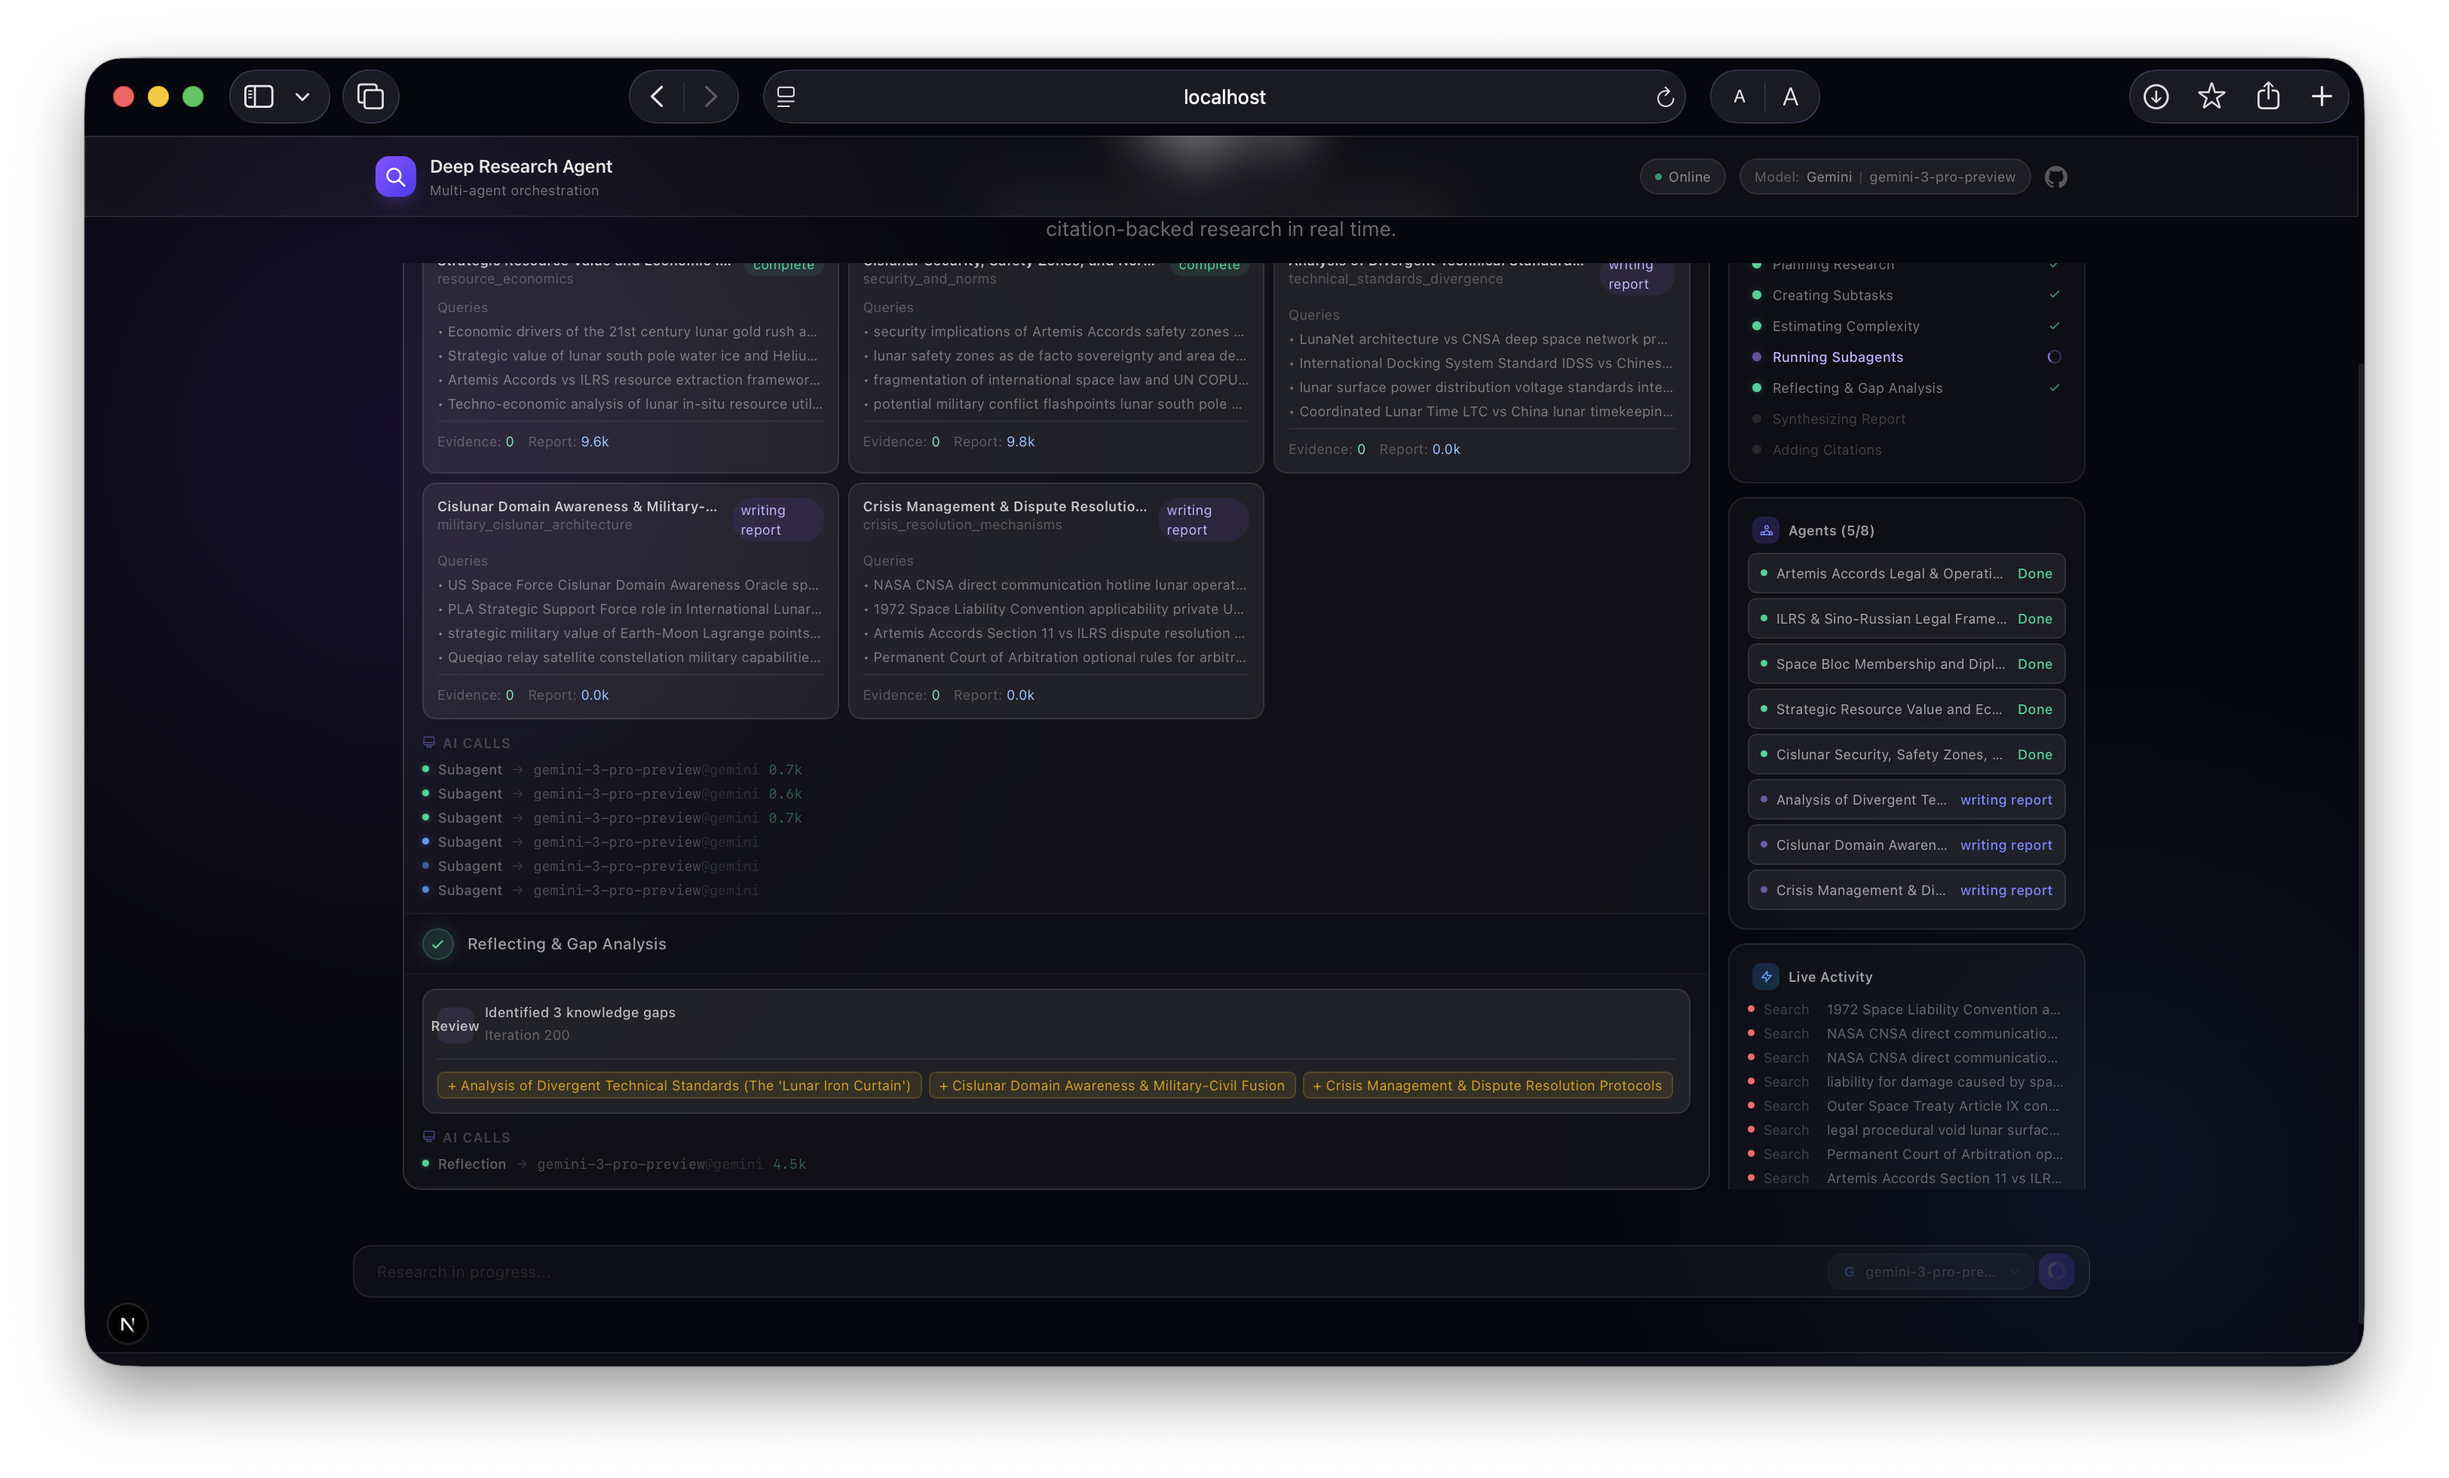
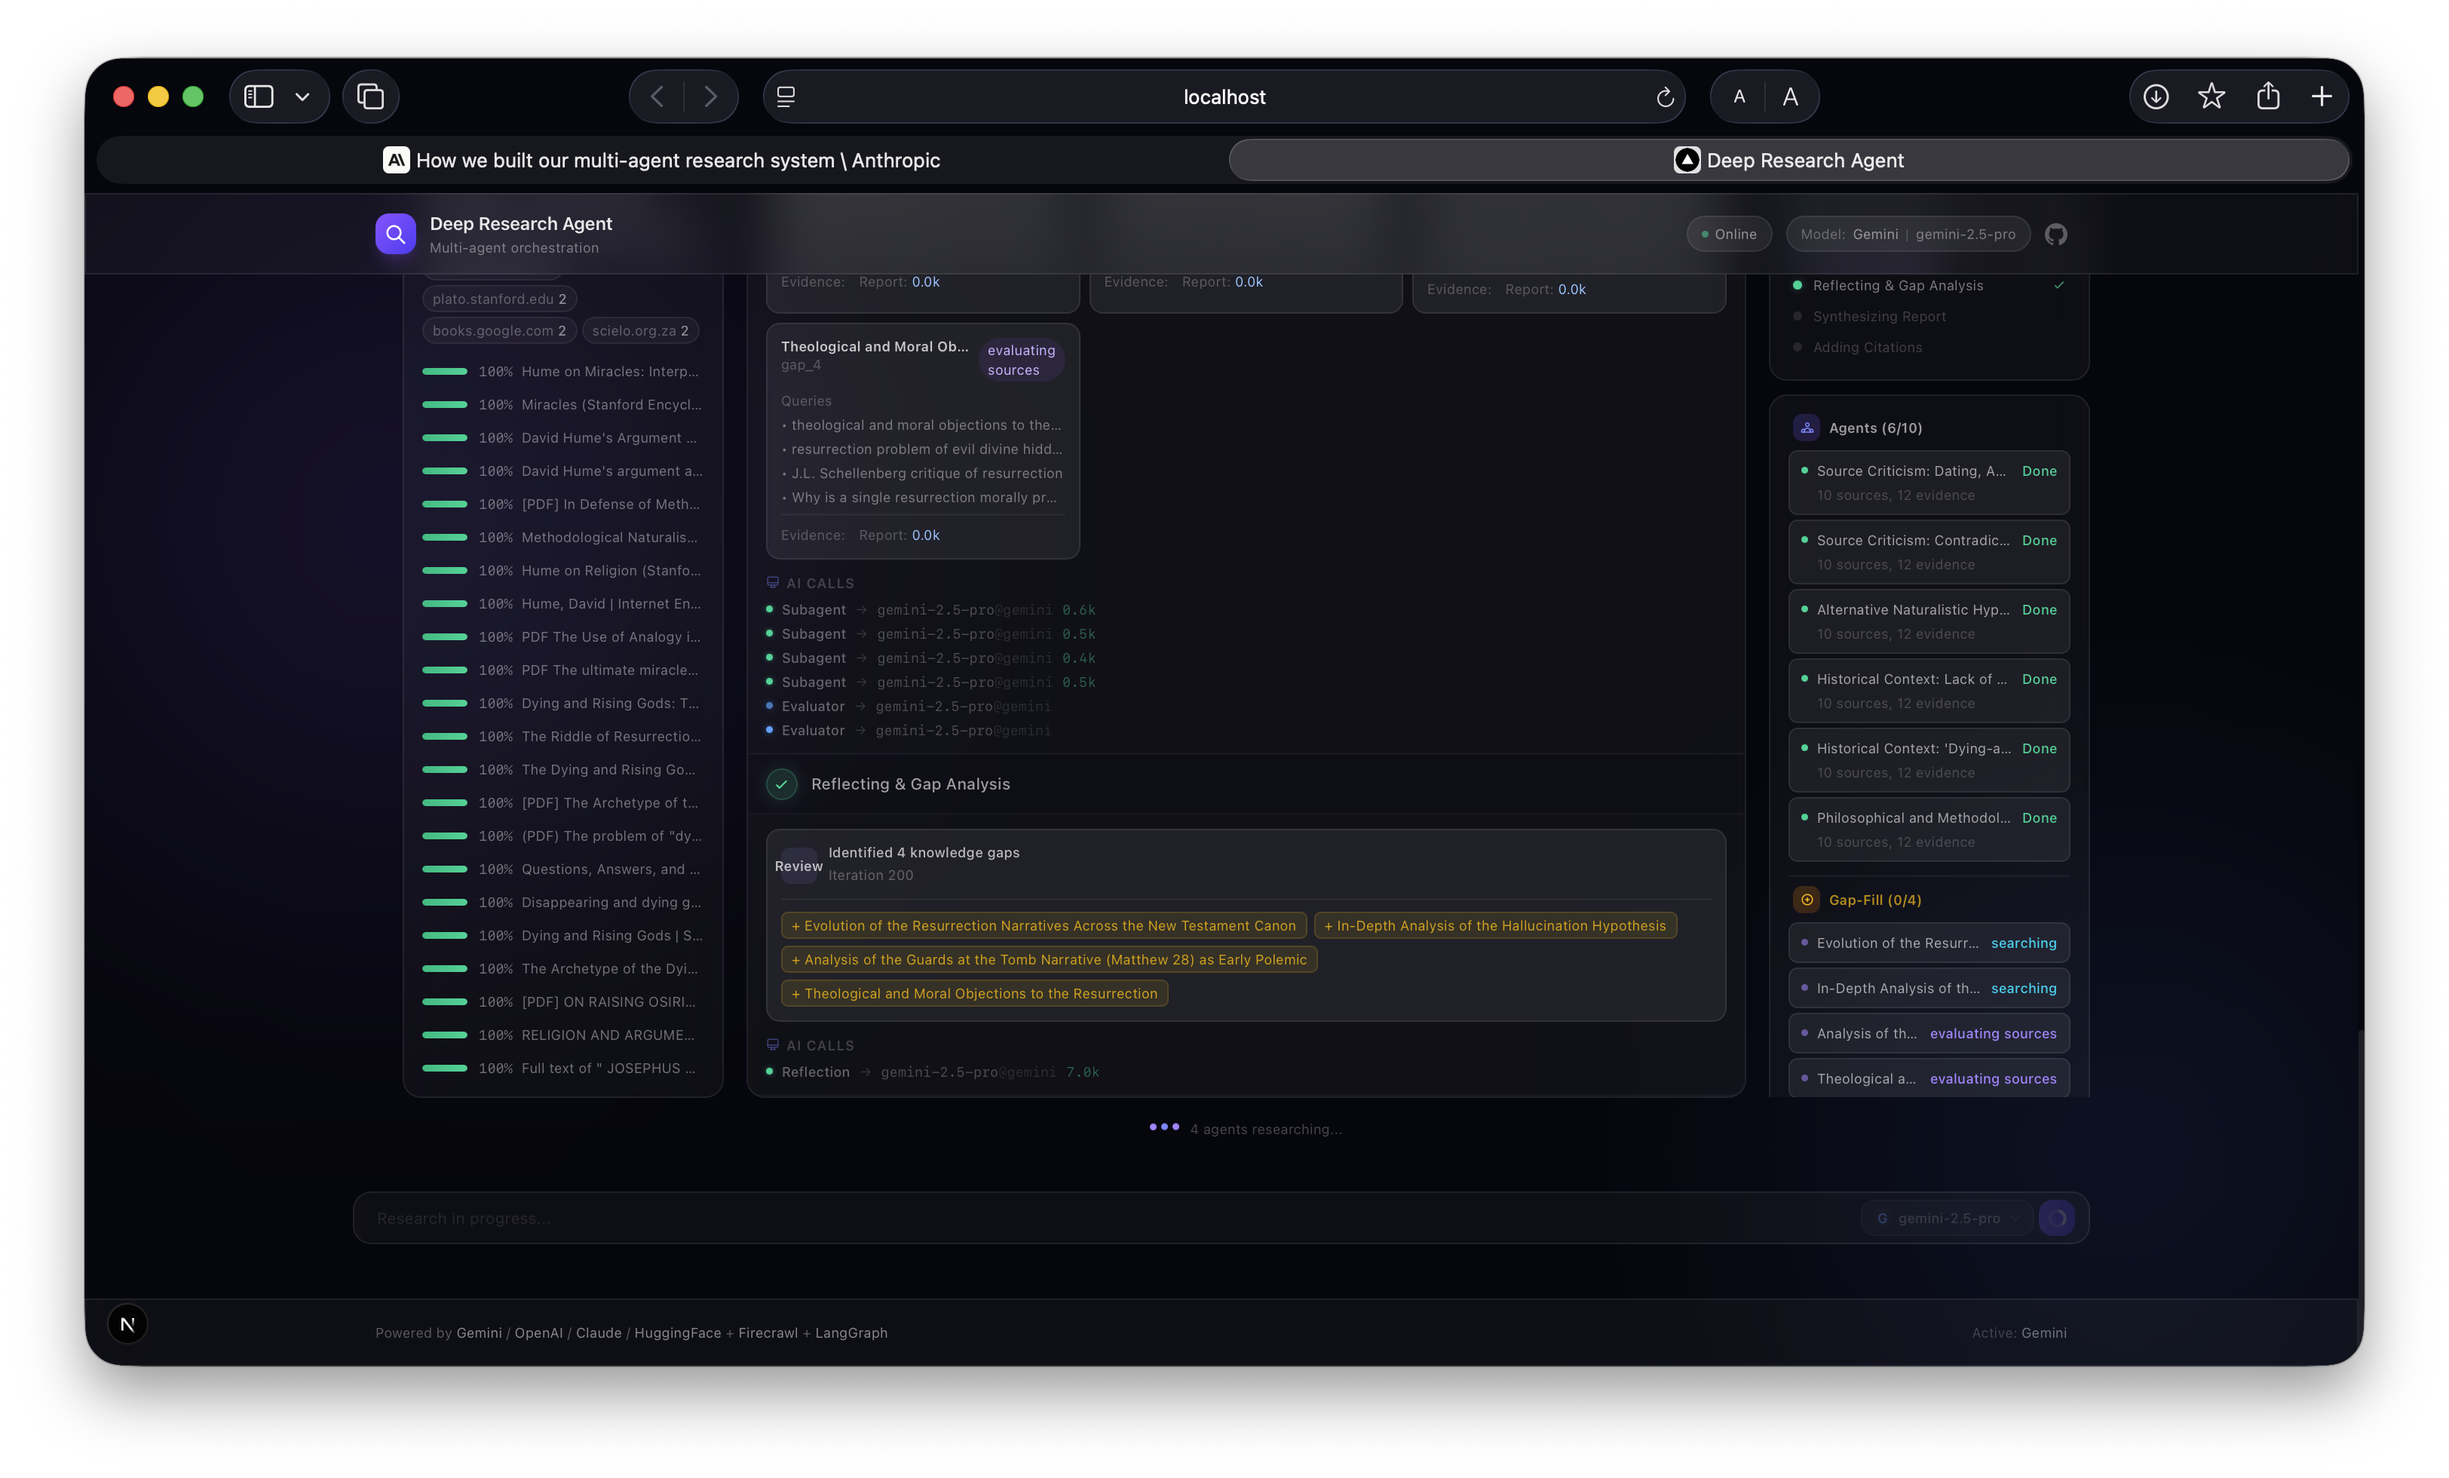
chore: commit workspace changes

Changed region(s): [[0.1555, 0.0934, 0.964, 0.9026], [0.1555, 0.8403, 0.3421, 0.9026], [0.4664, 0.3112, 0.5286, 0.3735]]

diff --git a/README.md b/README.md
@@ -196,15 +196,15 @@ Both sidebars are **sticky** — they remain visible as the user scrolls through
 
 ## Screenshots
 
-Three-column research dashboard
+Research dashboard
 
 ![Research Live](assets/research-live.png)
 
-Sources + agents visible while scrolling
+Research Sub-Agents
 
 ![Sticky Sidebars](assets/subagents-panel.png)
 
-Gap-fill agents after reflection
+Refection and Gap Analysis
 
 ![Reflection](assets/reflection.png)
 
